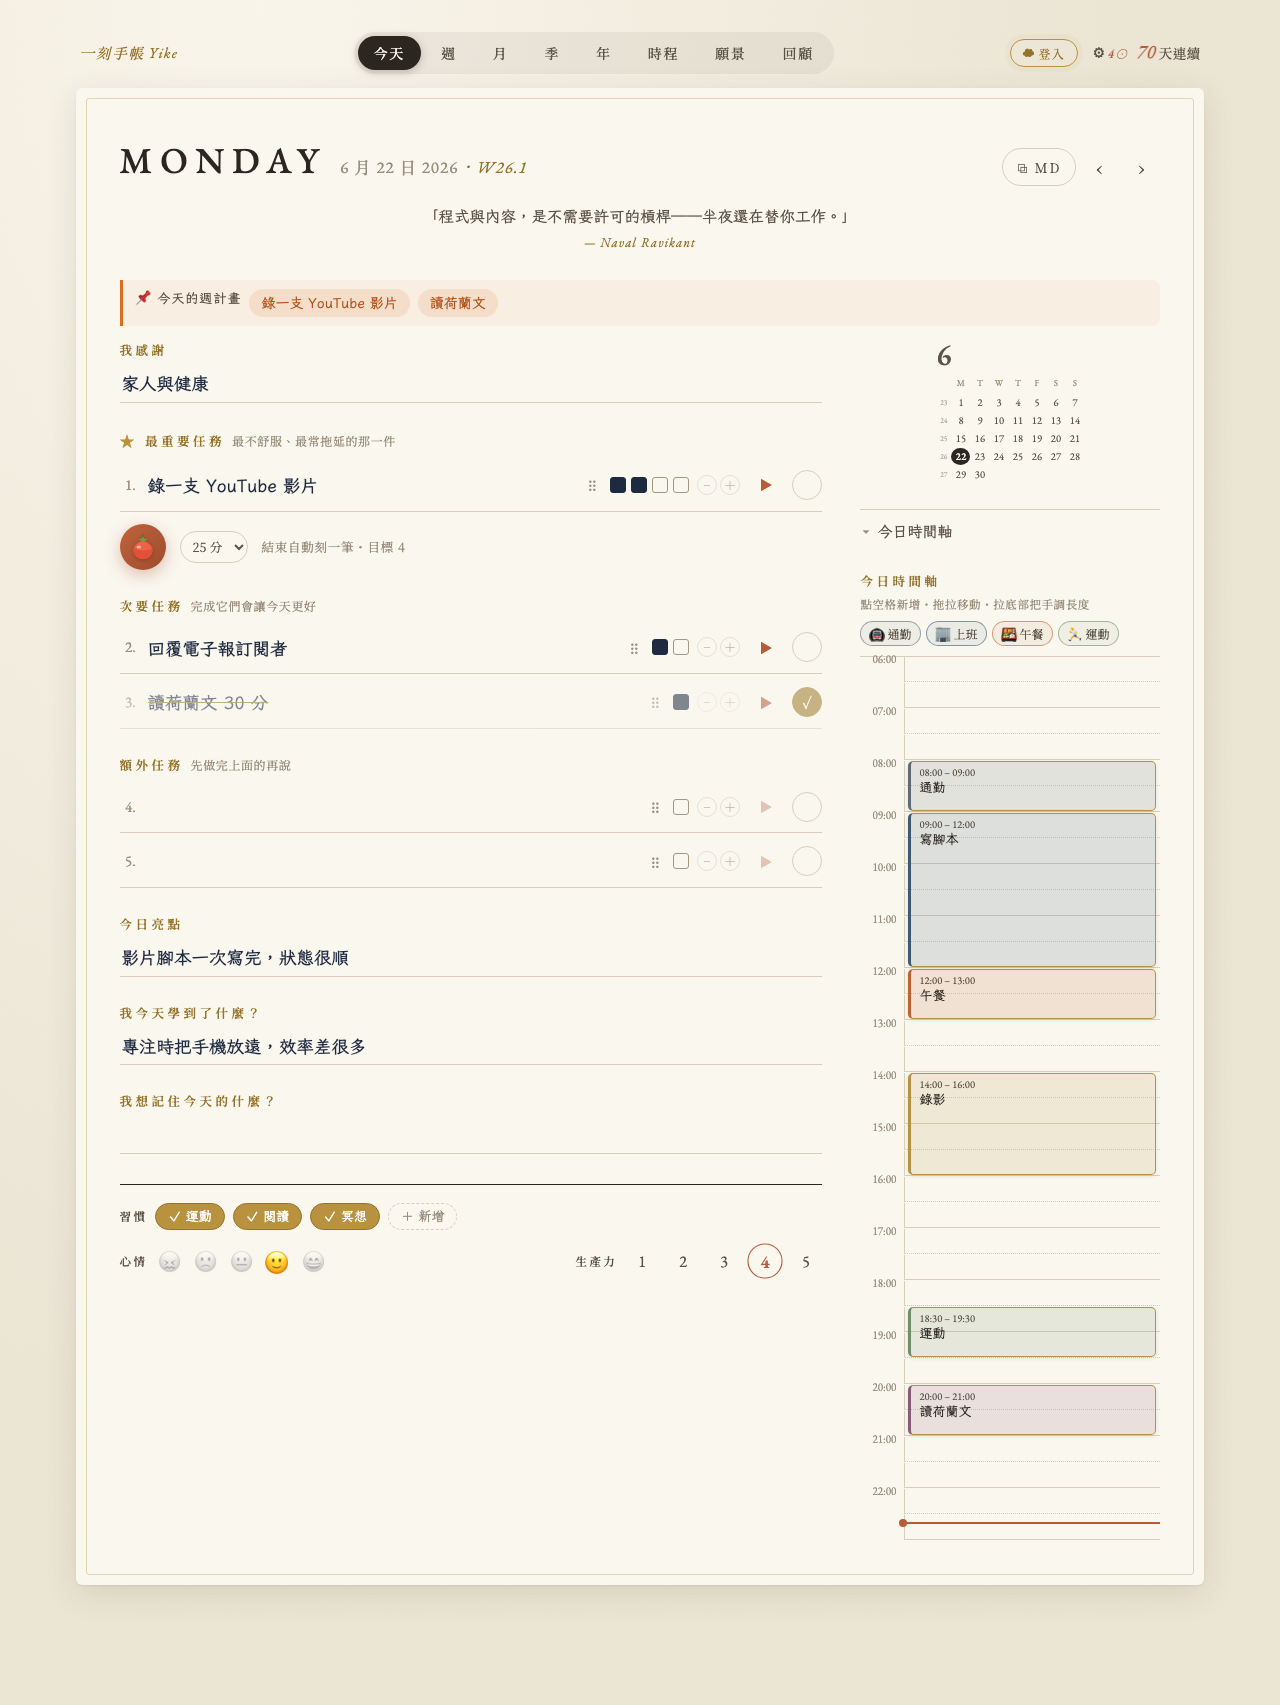
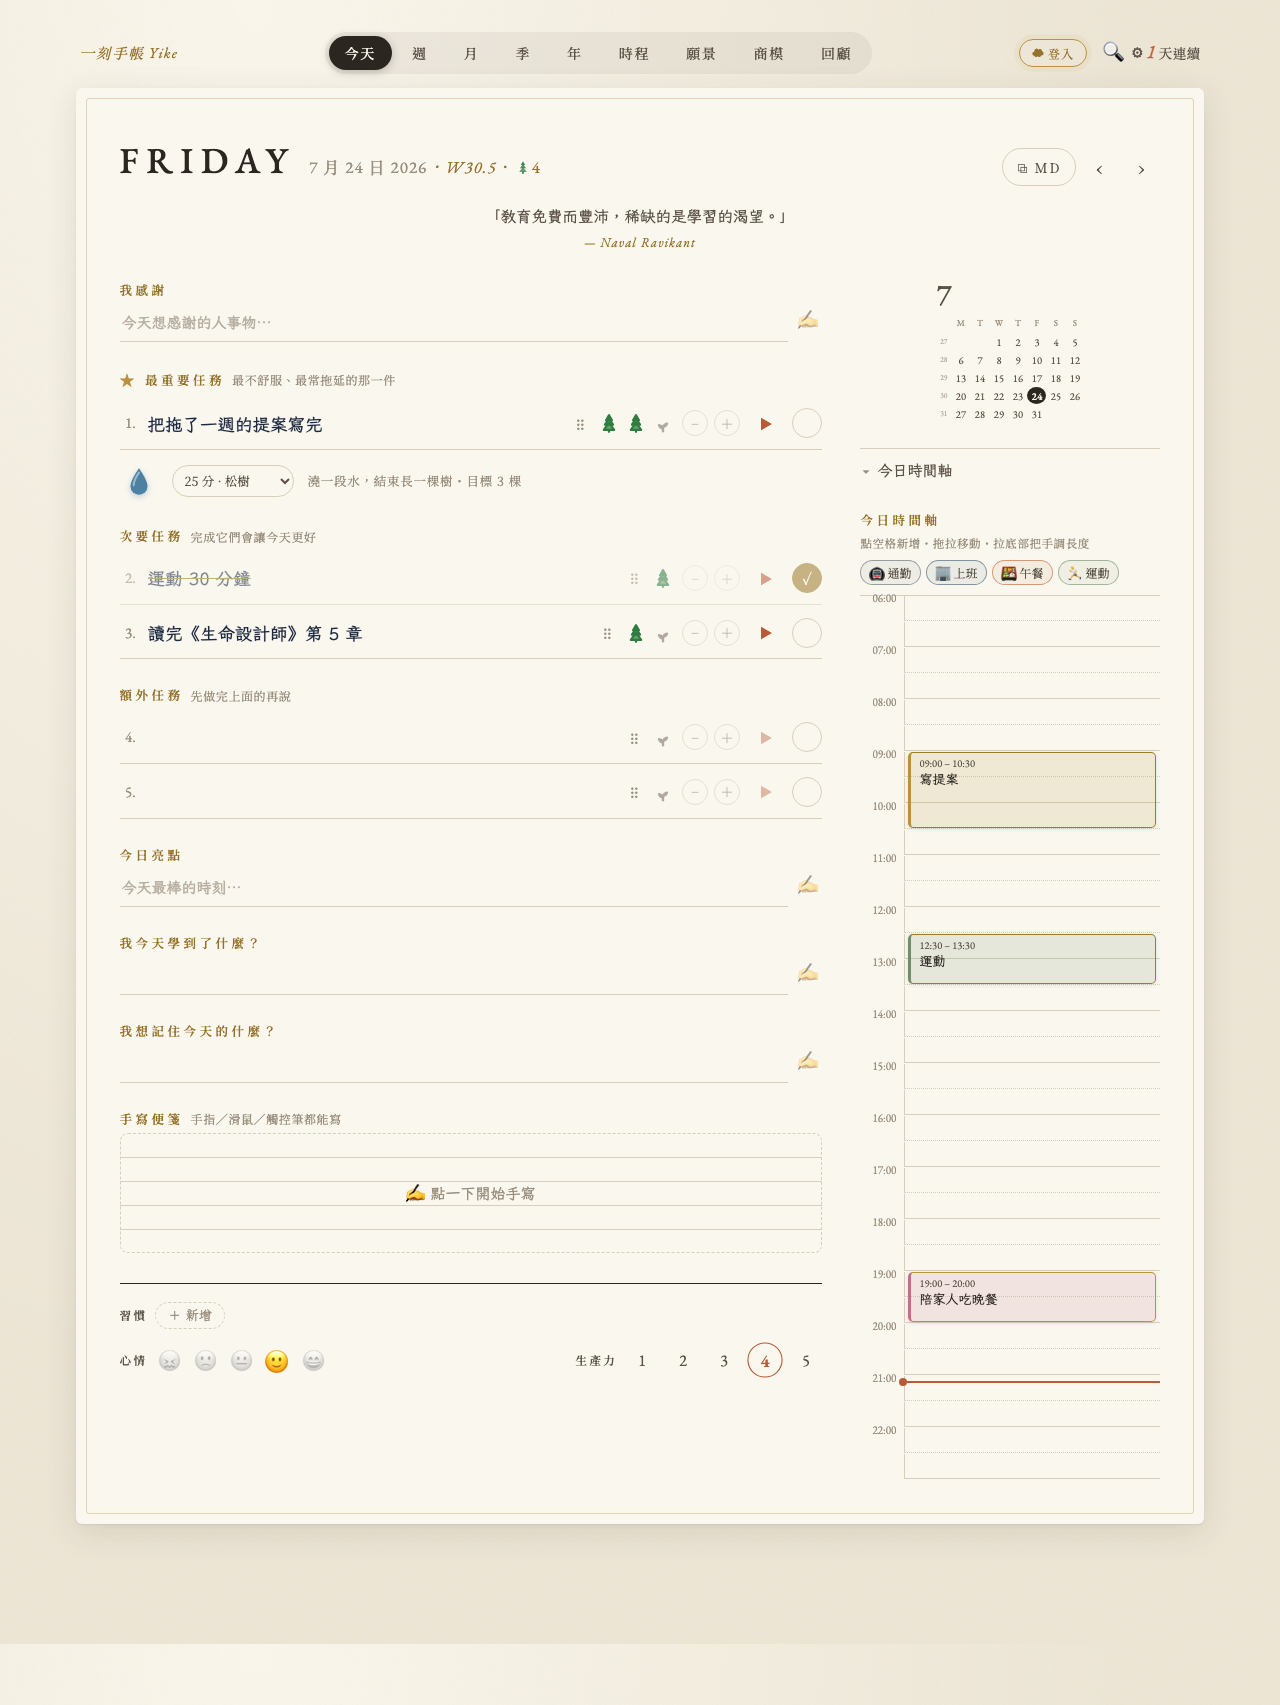
landing 截圖刷新為當前 UI（含商模 tab／種樹格／彩色時間軸／新導覽）
重拍 shot-day（桌機首屏）、shot-mobile（浮動手機）、shot-month，配上通用
示範資料（提案/運動/讀書＋時間塊＋種樹）；?v 5→6 破快取。舊圖是更早期 UI。

Claude-Session: https://claude.ai/code/session_01VRVUCRHxvD7mEXjF2HJA8R

diff --git a/public/landing.html b/public/landing.html
@@ -207,8 +207,8 @@ footer a{color:var(--ink-faint)}
     </div>
     <p class="note">免註冊・免下載・手機加入主畫面即是 App・資料預設 100% 存在你的裝置</p>
     <div class="hero-shot reveal">
-      <img src="img/shot-day.png?v=5" alt="一刻手帳每日頁面" />
-      <img class="float" src="img/shot-mobile.png?v=5" alt="手機版畫面" />
+      <img src="img/shot-day.png?v=6" alt="一刻手帳每日頁面" />
+      <img class="float" src="img/shot-mobile.png?v=6" alt="手機版畫面" />
     </div>
   </header>
 
@@ -266,7 +266,7 @@ footer a{color:var(--ink-faint)}
       <span class="rung far">願景・十年</span>
     </div>
     <div class="feature reveal">
-      <div class="f-img"><img src="img/shot-month.png?v=5" alt="月檢視" /></div>
+      <div class="f-img"><img src="img/shot-month.png?v=6" alt="月檢視" /></div>
       <div>
         <h3><em>ZOOM OUT</em>從今天，拉遠到整年</h3>
         <p>每一天的最重要任務、心情、評分都濃縮進月曆格；「年」是整年熱力格；回顧頁看見自己真正的模式。</p>
